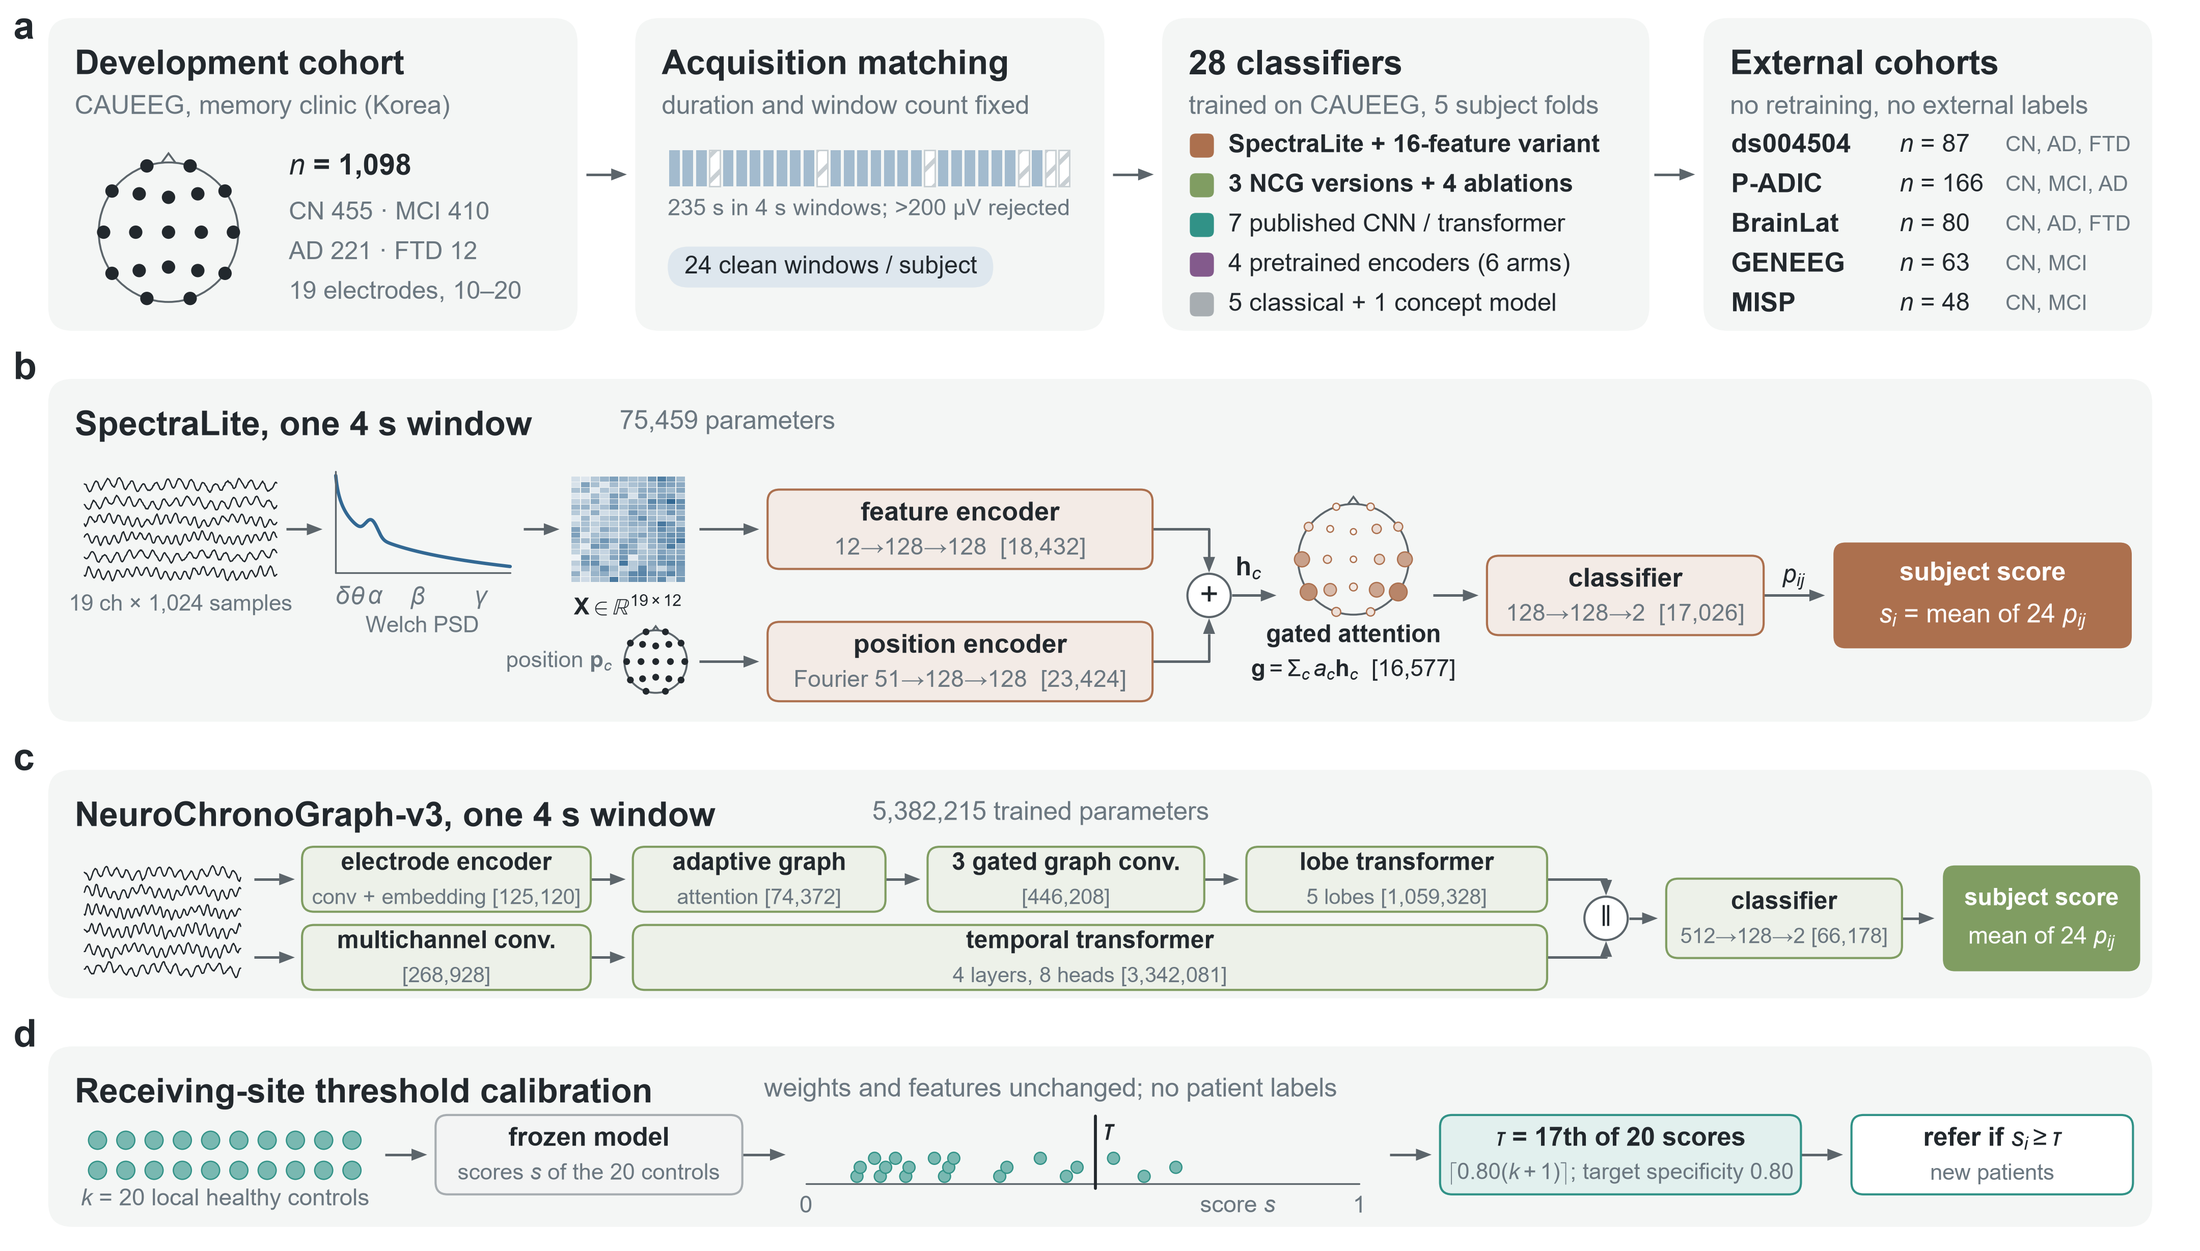
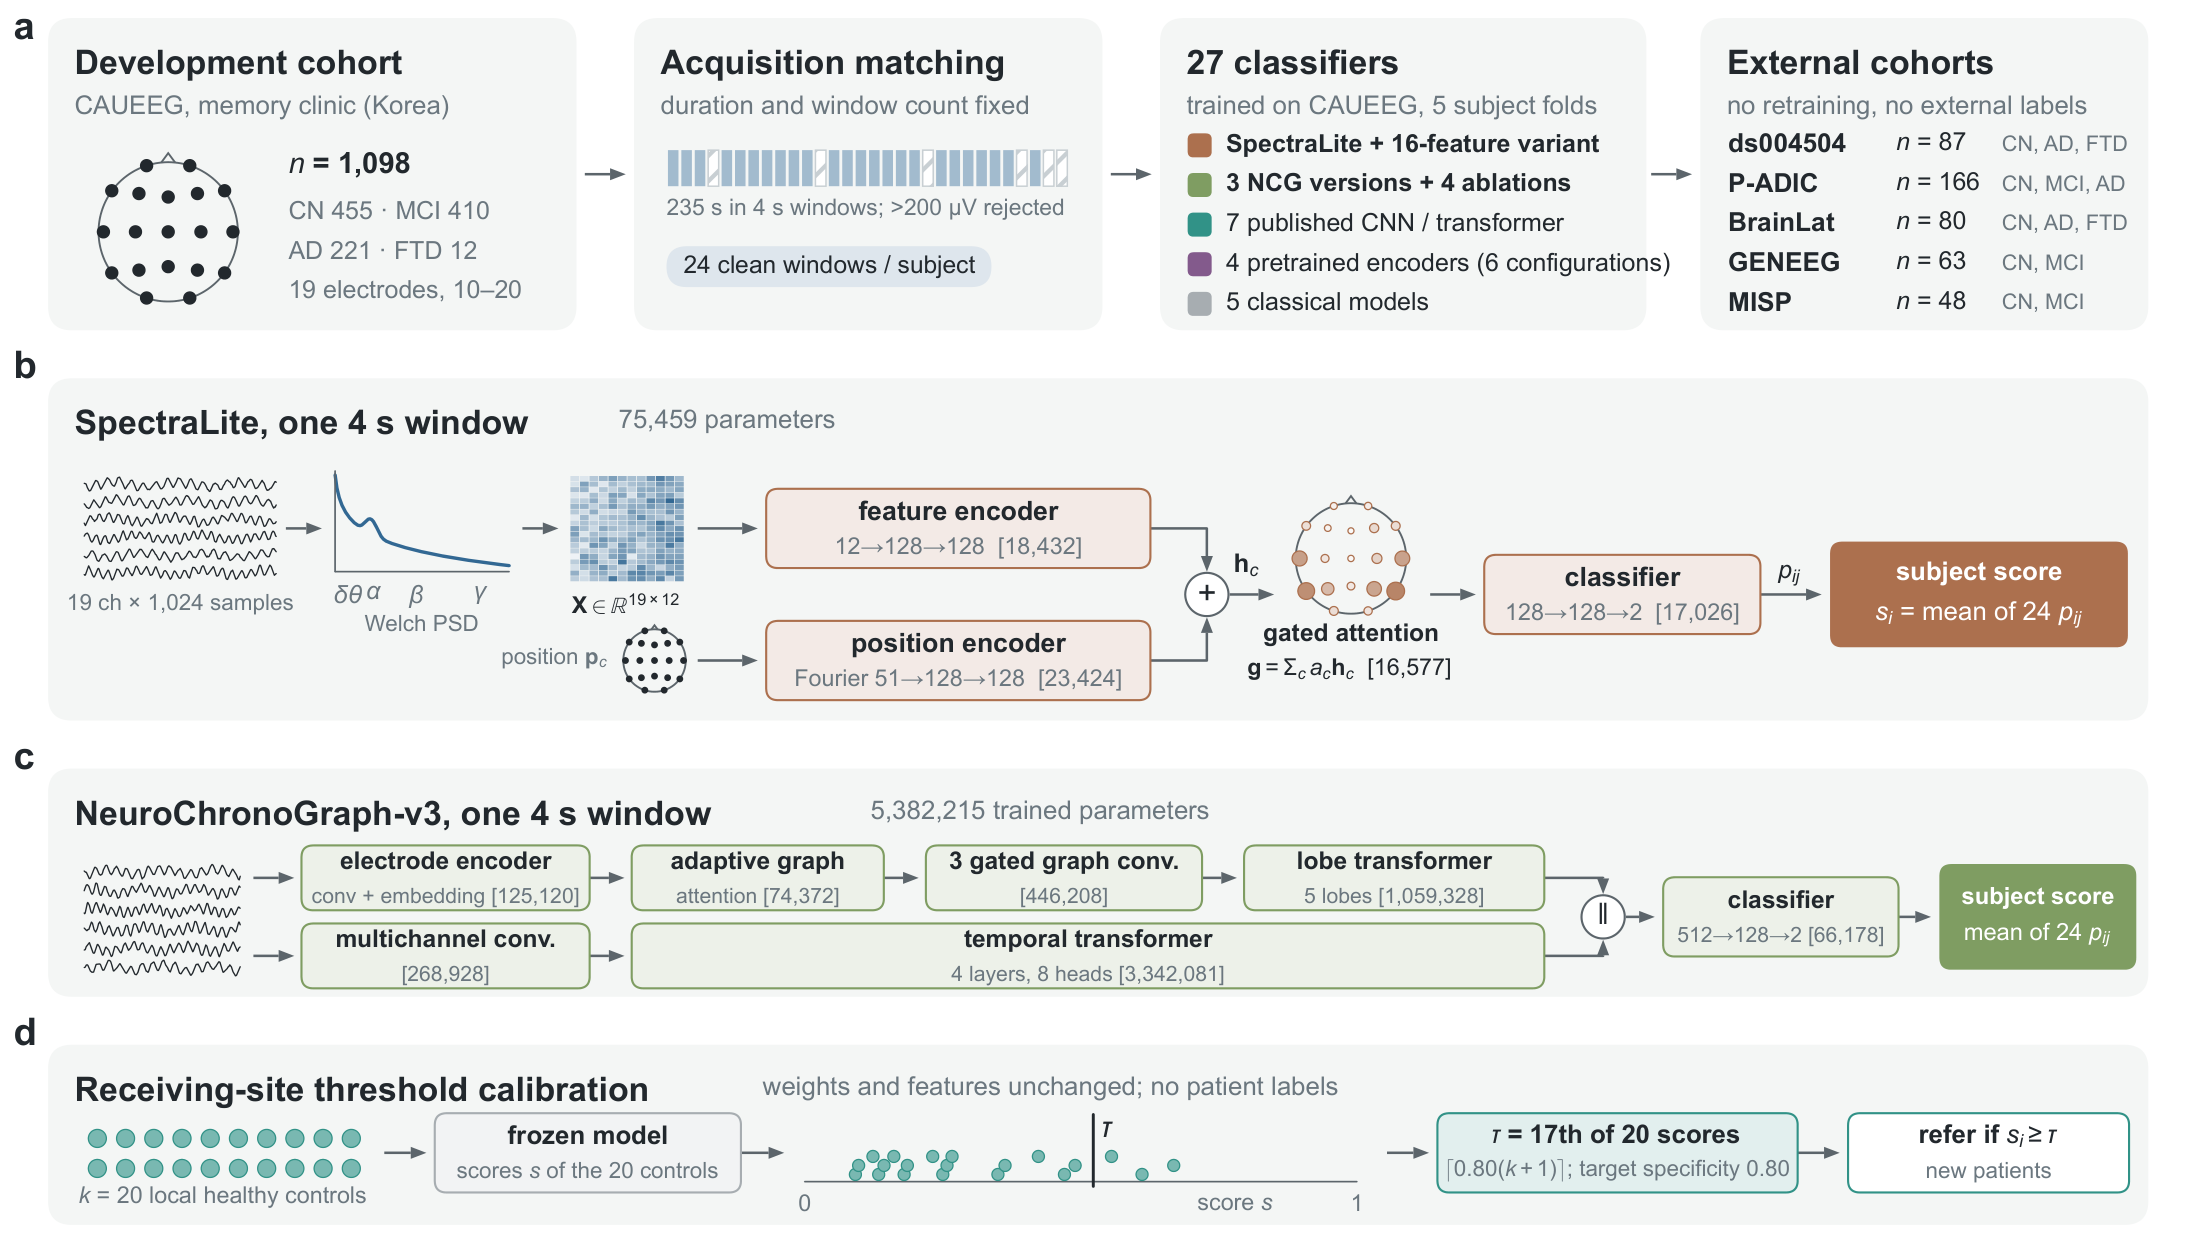
Remove the concept model from this paper's benchmark
The sign-constrained concept logistic belongs to the companion construct
paper. The classical benchmark no longer runs it by default (it stays
available through --models), the calibration, decision-curve and
site-shift scripts drop it from their model lists, and the local
calibration script no longer computes its age-normative arm.

The README now reports 27 classifiers (26 at the three external dementia
cohorts), the median of the 22 models in the figures, and the updated
Figure 1.

diff --git a/experiments/221_local_calibration.py b/experiments/221_local_calibration.py
@@ -11,10 +11,7 @@ Methods
   source_threshold   80th percentile of SOURCE OOF control scores (no local data)
   label_free_quota   refer the top fraction equal to the training-cohort prevalence (no local data)
   local_quantile     80th percentile of the k anchor controls' own scores (any model; no retraining)
-  age_norm_anchor    age-normative deviation re-anchored on the k controls, source threshold
-                     (concept logistic, as in exp 204; Spectral-75k, from exp 217)
-  age_norm_only      age-normative deviation, no anchor (k-independent)
-  age_norm_anchor+local_quantile   both: anchored deviations AND the local 80th-percentile threshold
+  local_conformal    split-conformal threshold from the k anchor controls (the rule reported in the paper)
 
     python experiments/221_local_calibration.py
 Out: outputs/results/canonical/calibration/local_calibration.json (+ per-split npz)
@@ -124,63 +121,14 @@ def operating_points(E, subs, y, s):
     return res
 
 
-def concept_agedev(task, A204, tb):
-    """Exp 204's estimator (L2 logistic on concept features) with raw / age-dev / anchored arms,
-    returning source OOF scores and a function that scores the external site for a given anchor."""
-    from sklearn.linear_model import LogisticRegression
-    from sklearn.model_selection import StratifiedKFold
-    from sklearn.preprocessing import StandardScaler
-    T = tb.subject_table("channel_clean")
-    subs, coh, cls_, X = np.asarray(T["subjects"]), T["cohort"], T["cls"], T["X_concept"]
-    amap = A204.load_ages()
-    ages = np.array([amap.get(A204.keyf(s, c), np.nan) for s, c in zip(subs, coh)], float)
-    pos, neg = {"CN_vs_dementia": (("AD", "FTD"), ("CN",)), "CN_vs_AD": (("AD",), ("CN",)),
-                "CN_vs_impaired": (("AD", "FTD", "MCI"), ("CN",))}[task]
-    cau = np.isfinite(ages) & (coh == "CAUEEG") & np.isin(cls_, pos + neg)
-    ext = np.isfinite(ages) & (coh == "ds004504_raw") & np.isin(cls_, pos + neg)
-    y = np.isin(cls_, pos).astype(int)
-    Xc, yc, ac, Xe, ye, ae = X[cau], y[cau], ages[cau], X[ext], y[ext], ages[ext]
-    m = A204.norm_fit(Xc[yc == 0], ac[yc == 0])
-
-    def fit(Xtr, ytr):
-        sc = StandardScaler().fit(Xtr)
-        f = LogisticRegression(max_iter=2000, C=1.0, class_weight="balanced").fit(sc.transform(Xtr), ytr)
-        return lambda Z: f.predict_proba(sc.transform(Z))[:, 1]
-
-    out = {}
-    for arm in ("raw", "dev"):
-        Xtr = Xc if arm == "raw" else A204.norm_dev(m, Xc, ac)
-        folds = list(StratifiedKFold(5, shuffle=True, random_state=42).split(Xtr, yc))
-        fits = [fit(Xtr[a], yc[a]) for a, _ in folds]
-        oof = np.full(len(yc), np.nan)
-        for (a, b), f in zip(folds, fits):
-            oof[b] = f(Xtr[b])
-        out[arm] = {"fits": fits, "oof": oof}
-    e_subs = subs[ext]
-    s_age = dict(zip(e_subs, ae)); s_X = dict(zip(e_subs, Xe))
-
-    def score(arm, anchor_subjects=None):
-        if arm == "raw":
-            Z = Xe
-        else:
-            anc = None
-            if anchor_subjects is not None:
-                anc = A204.fit_anchor(m, np.stack([s_X[s] for s in anchor_subjects]),
-                                      np.array([s_age[s] for s in anchor_subjects]))
-            Z = A204.norm_dev(m, Xe, ae, anchor=anc)
-        return np.mean([f(Z) for f in out[arm]["fits"]], 0)
-    return {"train_y": yc, "oof": out, "ext_subjects": e_subs, "ext_y": ye, "score": score}
-
-
 def main():
     OUT.mkdir(parents=True, exist_ok=True)
-    A204 = _load("a204", "204_age_conditioned.py")
     tb = _load("tb", "157_task_battery.py")
     report = {"target_specificity": TARGET_SPEC, "k_values": list(K_VALUES), "n_splits": N_SPLITS, "tasks": {}}
     for task in TASKS:
         tr = {}
         # ---------- score-level methods for every canonical model with scores ----------
-        for model in ("rf123", "rf_node", "concept", "spectralite16", "spectral75k", "ncg_v5", "atcnet", "eegnet"):
+        for model in ("rf123", "rf_node", "spectralite16", "spectral75k", "ncg_v5", "atcnet", "eegnet"):
             E = seed_ensemble(task, model)
             if E is None:
                 continue
@@ -202,33 +150,6 @@ def main():
                   f"sens {k20['source_threshold']['sens']['mean']:.2f} | local20 spec "
                   f"{k20['local_quantile']['spec']['mean']:.2f} sens {k20['local_quantile']['sens']['mean']:.2f}"
                   + extra, flush=True)
-
-        # ---------- concept logistic with age-normative arms (exp 204, cross-fitted anchors) ----------
-        CA = concept_agedev(task, A204, tb)
-        y, subs = CA["ext_y"], CA["ext_subjects"]; ctrl = subs[y == 0]
-        cres = {"by_k": {}}
-        s_raw = CA["score"]("raw"); s_dev = CA["score"]("dev")
-        thr_raw = float(np.quantile(CA["oof"]["raw"]["oof"][CA["train_y"] == 0], TARGET_SPEC))
-        thr_dev = float(np.quantile(CA["oof"]["dev"]["oof"][CA["train_y"] == 0], TARGET_SPEC))
-        from sklearn.metrics import roc_auc_score
-        cres["auc"] = {"raw": float(roc_auc_score(y, s_raw)), "dev": float(roc_auc_score(y, s_dev))}
-        for k in K_VALUES:
-            acc = {"source_threshold": [], "local_quantile": [], "local_conformal": [], "age_norm_only": [],
-                   "age_norm_anchor": [], "age_norm_anchor+local_quantile": []}
-            aucs_anchor = []
-            for anc, held in anchor_splits(ctrl, k):
-                s_anc = CA["score"]("dev", anc); aucs_anchor.append(roc_auc_score(y, s_anc))
-                acc["source_threshold"].append(rates(s_raw, y, subs, thr_raw, held))
-                acc["local_quantile"].append(rates(s_raw, y, subs, float(np.quantile(s_raw[np.isin(subs, anc)], TARGET_SPEC)), held))
-                acc["local_conformal"].append(rates(s_raw, y, subs, conformal_threshold(s_raw[np.isin(subs, anc)]), held))
-                acc["age_norm_only"].append(rates(s_dev, y, subs, thr_dev, held))
-                acc["age_norm_anchor"].append(rates(s_anc, y, subs, thr_dev, held))
-                acc["age_norm_anchor+local_quantile"].append(
-                    rates(s_anc, y, subs, float(np.quantile(s_anc[np.isin(subs, anc)], TARGET_SPEC)), held))
-            cres["by_k"][str(k)] = {meth: {"spec": summarise([a for a, _ in v]), "sens": summarise([b for _, b in v])}
-                                    for meth, v in acc.items()}
-            cres["by_k"][str(k)]["age_norm_anchor_auc"] = summarise(aucs_anchor)
-        tr["concept_logistic_204"] = cres
 
         report["tasks"][task] = tr
         (OUT / "local_calibration.json").write_text(json.dumps(report, indent=1))

diff --git a/experiments/212_classical_benchmark.py b/experiments/212_classical_benchmark.py
@@ -9,7 +9,8 @@ Models
                  electrode (228-d), subject median over windows. This is the fair "same features,
                  different estimator" comparator the montage grid lacked (review C4.2).
     gb, svm, logistic   as in 161 (scikit-learn defaults; SVM RBF; L2 logistic), standardised inputs
-    concept      the sign-constrained concept logistic (companion construct paper), C=0.5
+    concept      the sign-constrained concept logistic, C=0.5 (opt-in via --models; it belongs to the companion
+                 construct paper and is not part of this paper's benchmark)
 
 Unlike 161 the scaler is fitted inside each training fold, so internal OOF scores carry no
 scaling leakage. External scores are the mean of the five fold models, as for the networks.
@@ -89,7 +90,7 @@ def auc(y, s):
 def main():
     ap = argparse.ArgumentParser()
     ap.add_argument("--tag", default="channel_clean")
-    ap.add_argument("--models", default="rf123,rf_node,gb,svm,logistic,concept")
+    ap.add_argument("--models", default="rf123,rf_node,gb,svm,logistic")
     ap.add_argument("--tasks", default=",".join(TASKS))
     ap.add_argument("--rf-seeds", default="42,43,44")
     args = ap.parse_args()

diff --git a/experiments/223_calibration_dca.py b/experiments/223_calibration_dca.py
@@ -23,7 +23,7 @@ ROOT = Path(__file__).resolve().parents[1]
 sys.path.insert(0, str(ROOT)); sys.path.insert(0, str(ROOT / "experiments"))
 CAN = ROOT / "outputs" / "results" / "canonical"
 TASKS = ("CN_vs_dementia", "CN_vs_AD", "CN_vs_impaired", "CN_vs_MCI")
-MODELS = ("rf123", "rf_node", "concept", "spectralite16", "ncg_v5", "ncg_v3", "atcnet", "eegnet", "conformer",
+MODELS = ("rf123", "rf_node", "spectralite16", "ncg_v5", "ncg_v3", "atcnet", "eegnet", "conformer",
           "shallow", "deep4", "eegitnet", "eegnex", "gb", "svm", "logistic")
 PREVS = (0.05, 0.10, 0.20)
 

diff --git a/experiments/229_site_shift.py b/experiments/229_site_shift.py
@@ -35,7 +35,7 @@ FEATURES = ("rel. delta", "rel. theta", "rel. alpha", "rel. beta", "rel. gamma",
             "alpha peak prominence", "spectral edge (95%)", "aperiodic exponent", "theta/alpha",
             "slowing ratio", "spectral entropy")
 CONTROL_LABELS = {"CN", "C", "CONTROL"}
-MODELS = ("rf123", "rf_node", "concept", "spectral75k", "ncg_v5", "ncg_v3", "atcnet", "eegnet")
+MODELS = ("rf123", "rf_node", "spectral75k", "ncg_v5", "ncg_v3", "atcnet", "eegnet")
 
 
 def _load(name, file):

diff --git a/README.md b/README.md
@@ -13,7 +13,7 @@ Code to reproduce every analysis in
 > Referral Thresholds Between Independent Clinical Cohorts," manuscript submitted to *IEEE Journal of
 > Biomedical and Health Informatics*, 2026.
 
-We designed two model families for resting-state EEG dementia screening and tested them among 28 classifiers
+We designed two model families for resting-state EEG dementia screening and tested them among 27 classifiers
 on cohorts they were never trained or tuned on:
 
 - **SpectraLite**: a 75,459-parameter network that reads 12 named spectral markers per electrode
@@ -25,7 +25,7 @@ on cohorts they were never trained or tuned on:
 
 ![Study design, SpectraLite, NeuroChronoGraph-v3, and receiving-site threshold calibration](assets/fig1_design_and_models.png)
 
-*(a) 28 classifiers trained on CAUEEG and applied unchanged to five external cohorts. (b) SpectraLite and
+*(a) 27 classifiers trained on CAUEEG and applied unchanged to five external cohorts. (b) SpectraLite and
 (c) NeuroChronoGraph-v3 for one 4 s window, with per-block parameter counts. (d) A receiving clinic sets
 its referral threshold from 20 of its own healthy recordings, without patient labels.*
 
@@ -39,12 +39,12 @@ Control versus dementia AUC (three-seed ensembles; internal values out-of-fold):
 | NCG-v3 | 6.3 M | **0.906** | **0.863** | **0.717** | 0.603 |
 | NCG-v5 | 964 k | 0.874 | 0.822 | 0.676 | 0.609 |
 | Random forest, 123 QEEG features | – | 0.810 | 0.840 | 0.705 | 0.588 |
-| Median of 23 models | – | 0.840 | 0.840 | 0.681 | 0.618 |
+| Median of 22 models | – | 0.841 | 0.840 | 0.682 | 0.621 |
 
-1. **Capacity helped in development, not at new cohorts.** NCG-v3 beat SpectraLite internally by 0.049 AUC
-   (95% CI 0.032–0.067, Holm *P* < 0.001) but by −0.010 to +0.033 externally; no external paired comparison
+1. **Capacity helped only in development.** NCG-v3 beat SpectraLite internally by 0.049 AUC (95% CI
+   0.032–0.067, Holm *P* < 0.001) but by only −0.010 to +0.033 externally; no external paired comparison
    survived Holm correction.
-2. **The cohort mattered more than the model.** Across 27 models at three external dementia cohorts, the
+2. **The cohort mattered more than the model.** Across 26 models at three external dementia cohorts, the
    cohort explained 89% of the variance in AUC and the model 4%. Healthy recordings alone identified their
    cohort (AUC 0.96–1.00). Severity, age, and education explained part of the gap: mild Alzheimer's disease
    was detected at AUC 0.52 at one cohort, moderate at 0.88. Changing the preprocessing or the recording
@@ -115,7 +115,7 @@ and checkpoints; results are written to `outputs/`.
 | Duration matching, windowing, rejection, 24 windows per subject | `experiments/127_extract_harmonised.py` |
 | P-ADIC, BrainLat, MISP extraction | `experiments/224_padic_site.py`, `232_brainlat_site.py`, `263_misp_external.py` |
 | All networks, internal and external scores, checkpoints | `experiments/211_canonical_benchmark.py` |
-| Classical baselines | `experiments/212_classical_benchmark.py` |
+| Classical baselines (random forests, gradient boosting, SVM, logistic regression) | `experiments/212_classical_benchmark.py` |
 | Pretrained encoders (LaBraM, EEGPT, CBraMod, LEAD) | `experiments/216_fm_matched.py`, `252_fm_external_complete.py` |
 | 16-feature variant | `experiments/237_canonical_spectralite16.py` |
 | Paired tests, equivalence, Holm correction | `experiments/225_merge_stats.py` |
@@ -125,7 +125,7 @@ and checkpoints; results are written to `outputs/`.
 | Age and education | `experiments/248_age_confound_all_sites.py` |
 | Recording condition and preprocessing | `experiments/260_protocol_shift.py`, `260b_protocol_thresholds_ncg.py`, `261_protocol_matched_training.py` |
 | Threshold calibration, clinical metrics | `experiments/221_local_calibration.py`, `250_clinical_metrics.py` |
-| Transfer levers | `experiments/249_spectralite_transfer_levers.py`, `251_improvement_summary.py` |
+| Prespecified transfer methods | `experiments/249_spectralite_transfer_levers.py`, `251_improvement_summary.py` |
 | MISP (analyzed last, predicted in advance) | `experiments/263_misp_external.py` |
 | Marker validation (predictions in `prespecified/`) | `experiments/264_marker_validation.py` |
 | Hugging Face export | `experiments/241_export_hf_release.py` |
